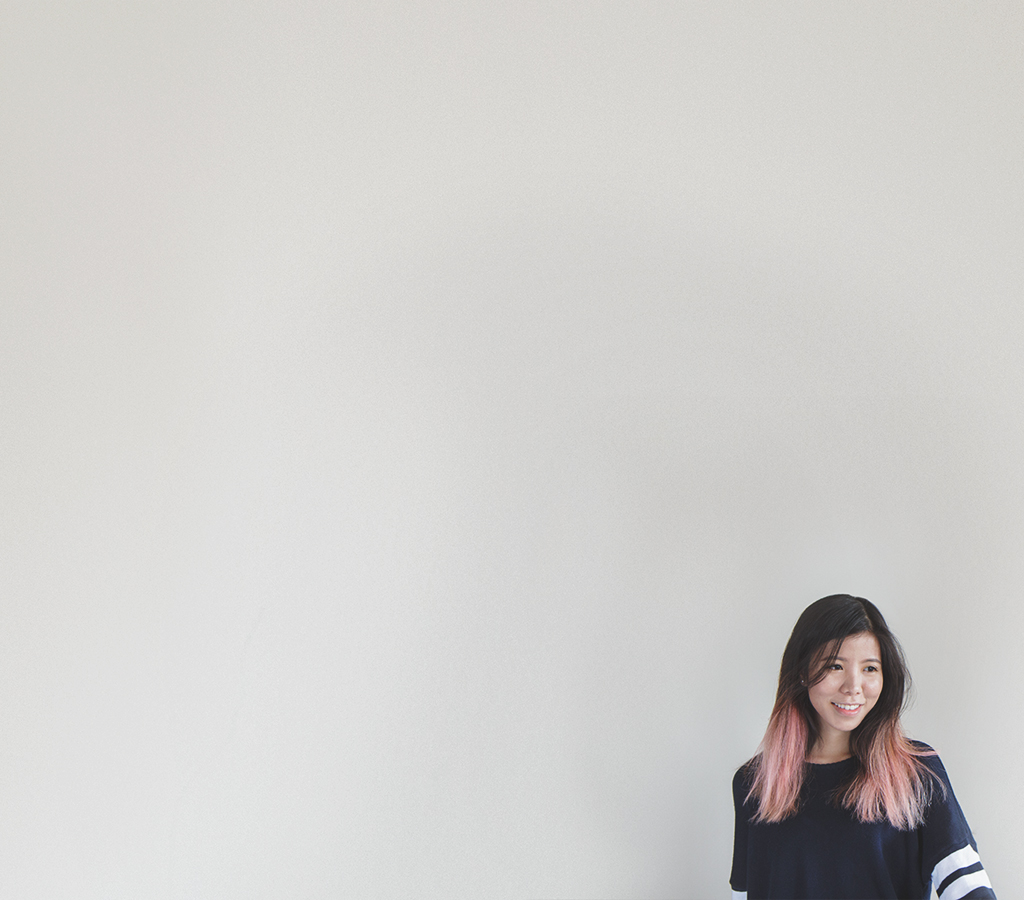
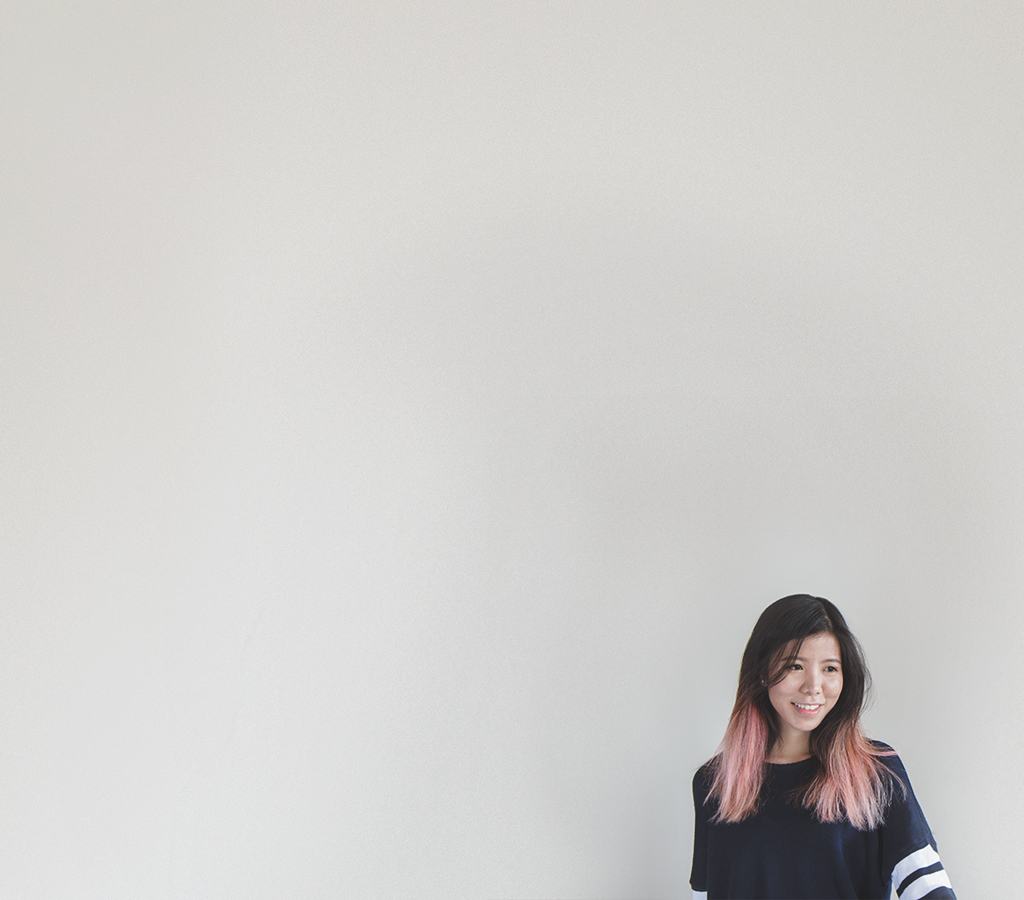
responsive hero

Changed region(s): [[0.6562, 0.6533, 1.0, 1.0]]

diff --git a/src/scss/_custom.scss b/src/scss/_custom.scss
@@ -34,11 +34,11 @@ max-width: 100rem;
   background-size: cover;
   min-height:905px;
   /*/ small /*/
-  @media screen and (max-width: 39.9375em) {
+@include breakpoint(small only) {
     background: url('../img/bg.jpg') no-repeat center center;
       }
   /*/ medium /*/
-    @media screen and (min-width: 40em) and (max-width: 63.9375em) {
+@include breakpoint(medium only) {
     background: url('../img/bg2.jpg') no-repeat center center;
      }
  }
@@ -55,7 +55,7 @@ max-width: 100rem;
   }
       /*/ medium /*/
     @media screen and (min-width: 40em) and (max-width: 63.9375em) {
-      padding-top: 80px;
+      padding-top:40px;
     }
       /*/ large /*/
     @media screen and (min-width: 64em) {

diff --git a/dist/css/site.css b/dist/css/site.css
@@ -6919,7 +6919,7 @@ body {
       padding: 0 15px; } }
   @media screen and (min-width: 40em) and (max-width: 63.9375em) {
     .intro {
-      padding-top: 80px; } }
+      padding-top: 40px; } }
   @media screen and (min-width: 64em) {
     .intro {
       padding-top: 190px; } }
